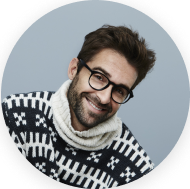
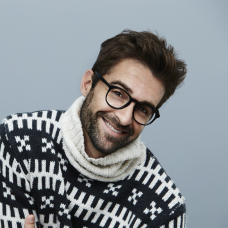
Change header to redesigned

diff --git a/assets/js/components/ProjectsHeader.vue b/assets/js/components/ProjectsHeader.vue
@@ -1,9 +1,35 @@
 <template>
-  <div class="page-subheader" :style="styles">
-    <div class="h-container">
+  <div class="page-subhead" :style="styles">
+    <div class="head-container">
       <img :src="user.imageProfile" class="userImage" alt="user-image">
-      <div class="th-heading title">{{user.title}}</div>
-      <div class="th-heading position">{{user.position}}</div>
+      <div class="head-txt-container">
+        <div class="about-info">
+          <div class="th-heading title">{{user.title}}</div>
+          <div class="th-heading position">{{user.position}}</div>
+        </div>
+        <hr>
+        <div class="summary-info">
+          <div class="sum" ><svg width="28" height="25" viewBox="0 0 28 25" fill="none" xmlns="http://www.w3.org/2000/svg">
+            <path d="M8.13511 14.4287C8.92198 14.4287 9.68256 14.3779 10.4023 14.2832V6.39439C9.68263 6.29985 8.92198 6.24902 8.13511 6.24902C3.64222 6.24902 0 7.90092 0 9.93872V10.7389C0 12.7766 3.64222 14.4287 8.13511 14.4287Z" fill="white"/>
+            <path d="M8.13511 18.5474C8.92198 18.5474 9.68256 18.4965 10.4023 18.4021V16.0897C9.68242 16.1842 8.92219 16.2358 8.13511 16.2358C4.2133 16.2358 0.939977 14.977 0.171095 13.3018C0.0591233 13.5458 0 13.7984 0 14.0575V14.8577C0 16.8955 3.64222 18.5474 8.13511 18.5474Z" fill="white"/>
+            <path d="M10.4023 20.3895V20.2098C9.68242 20.3043 8.92218 20.3559 8.13511 20.3559C4.2133 20.3559 0.939977 19.0971 0.171095 17.4219C0.0591233 17.6658 0 17.9185 0 18.1775V18.9777C0 21.0156 3.64222 22.6675 8.13511 22.6675C9.0336 22.6675 9.89779 22.6012 10.7059 22.4792C10.5056 22.0695 10.4023 21.6373 10.4023 21.1897V20.3895Z" fill="white"/>
+            <path d="M19.8649 0C15.372 0 11.7298 1.6519 11.7298 3.6897V4.48989C11.7298 6.52769 15.372 8.17959 19.8649 8.17959C24.3577 8.17959 28 6.52769 28 4.48989V3.6897C28 1.6519 24.3577 0 19.8649 0Z" fill="white"/>
+            <path d="M19.8649 9.98771C15.9431 9.98771 12.6698 8.72903 11.9009 7.05371C11.7889 7.29766 11.7298 7.55033 11.7298 7.80942V8.6096C11.7298 10.6474 15.372 12.2993 19.8649 12.2993C24.3577 12.2993 28 10.6474 28 8.6096V7.80942C28 7.55033 27.9409 7.29766 27.8289 7.05371C27.06 8.72903 23.7867 9.98771 19.8649 9.98771Z" fill="white"/>
+            <path d="M19.8649 14.1059C15.9431 14.1059 12.6698 12.8471 11.9009 11.1719C11.7889 11.4158 11.7298 11.6685 11.7298 11.9276V12.7278C11.7298 14.7656 15.372 16.4175 19.8649 16.4175C24.3577 16.4175 28 14.7656 28 12.7278V11.9276C28 11.6685 27.9409 11.4158 27.8289 11.1719C27.06 12.8472 23.7867 14.1059 19.8649 14.1059Z" fill="white"/>
+            <path d="M19.8649 18.4486C15.9431 18.4486 12.6698 17.1899 11.9009 15.5146C11.7889 15.7587 11.7298 16.0113 11.7298 16.2703V17.0705C11.7298 19.1083 15.372 20.7602 19.8649 20.7602C24.3577 20.7602 28 19.1083 28 17.0705V16.2703C28 16.0113 27.9409 15.7585 27.8289 15.5146C27.06 17.1898 23.7867 18.4486 19.8649 18.4486Z" fill="white"/>
+            <path d="M19.8649 22.5678C15.9431 22.5678 12.6698 21.3091 11.9009 19.6339C11.7889 19.8779 11.7298 20.1306 11.7298 20.3895V21.1897C11.7298 23.2275 15.372 24.8794 19.8649 24.8794C24.3577 24.8794 28 23.2275 28 21.1897V20.3894C28 20.1304 27.9409 19.8777 27.8289 19.6338C27.06 21.309 23.7867 22.5678 19.8649 22.5678Z" fill="white"/>
+          </svg> <span>{{user.valueText}}</span>{{user.value}}
+          </div>
+          <div class="sum valet"><svg width="28" height="27" viewBox="0 0 28 27" fill="none" xmlns="http://www.w3.org/2000/svg">
+            <path d="M6.54308 5.11639L17.7054 2.06957L17.1142 0.874731C16.7275 0.0980891 15.7842 -0.22263 15.0075 0.164119L5.01495 5.11639H6.54308Z" fill="white"/>
+            <path d="M21.1703 2.15723C21.0319 2.15723 20.8936 2.17609 20.7552 2.21382L18.1329 2.93072L10.1243 5.11601H19.2145H23.1763L22.6858 3.31747C22.4972 2.61629 21.862 2.15723 21.1703 2.15723Z" fill="white"/>
+            <path d="M24.8148 6.21777H24.4564H23.969H23.4816H19.7619H6.09366H4.3014H2.79214H2.5123H1.57529C1.0785 6.21777 0.635149 6.44731 0.345873 6.8089C0.213812 6.97555 0.113195 7.16735 0.0565974 7.37802C0.0220101 7.51008 0 7.64843 0 7.78992V7.97858V9.77083V25.3068C0 26.1747 0.704323 26.879 1.57215 26.879H24.8117C25.6795 26.879 26.3838 26.1747 26.3838 25.3068V20.9205H17.0547C15.58 20.9205 14.382 19.7225 14.382 18.2479V16.8078V16.3204V15.833V14.7514C14.382 14.0282 14.6713 13.3711 15.1398 12.89C15.5549 12.4624 16.1114 12.1731 16.734 12.1008C16.8377 12.0882 16.9446 12.0819 17.0515 12.0819H25.0758H25.5632H26.0505H26.3838V7.78992C26.387 6.9221 25.6826 6.21777 24.8148 6.21777Z" fill="white"/>
+            <path d="M27.4874 13.5837C27.3301 13.4391 27.1446 13.3291 26.9371 13.2567C26.7767 13.2033 26.607 13.1719 26.4277 13.1719H26.3869H26.3554H25.868H24.1104H17.0546C16.1867 13.1719 15.4824 13.8762 15.4824 14.744V15.5269V16.0143V16.5017V18.2436C15.4824 19.1114 16.1867 19.8158 17.0546 19.8158H26.3869H26.4277C26.607 19.8158 26.7768 19.7843 26.9371 19.7309C27.1446 19.6617 27.3301 19.5485 27.4874 19.4038C27.8018 19.1177 27.9999 18.7027 27.9999 18.2436V14.744C27.9999 14.2849 27.8018 13.8698 27.4874 13.5837ZM20.3372 16.8067C20.3372 17.2406 19.9851 17.5927 19.5511 17.5927H19.0292C18.5953 17.5927 18.2431 17.2406 18.2431 16.8067V16.2847C18.2431 16.0332 18.3595 15.8099 18.545 15.6684C18.6802 15.5646 18.8469 15.4986 19.0292 15.4986H19.1613H19.5511C19.9851 15.4986 20.3372 15.8508 20.3372 16.2847V16.8067Z" fill="white"/>
+          </svg>
+            <span>{{user.valueText}}</span> {{user.valet}}</div>
+        </div>
+      </div>
+
     </div>
     <div class="nav">
       <ul class="nav-links" >
@@ -36,7 +62,10 @@ export default {
         user : {
           title : 'שמתשמ םש',
           imageProfile: '/static/images/profile/defPicCutted.png',
-          position: 'האדר שייכל'
+          position: 'האדר שייכל',
+          valet: ' $235 ',
+          value : '$235',
+          valueText: 'לכייש רדאה:'
         }
     }
   }
@@ -52,38 +81,44 @@ export default {
 </script>
 
 <style lang="scss" scoped>
-@import '~@/vars.scss';
-.page-subheader{
 
+.page-subhead{
   position: relative;
   height:451px;
   width: 100%;
   display: flex;
-  -ms-align-items: center;
-  align-items: center;
-  flex-direction: column;
+
+
+  flex-direction: row;
+  justify-content: flex-start;
   -webkit-background-size: cover;
   background-size: cover;
   background-position: center;
-  .h-container{
+  .head-container{
+
+    height: 317px;
+    margin-right: 358px;
     width: unset;
     display: flex;
-    flex-direction: column;
+    flex-direction: row;
     align-items: center;
     text-align: center;
+    @media screen and (max-width:1440px ){
+      margin: 0 auto;
+    }
     .userImage{
       pointer-events: none;
     }
     .title{
       pointer-events:none;
       margin: 0;
-      margin-bottom: -20px;
+      margin-bottom: -27px;
       font-family: Assistant;
       font-style: normal;
       font-weight: bold;
       font-size: 36px;
       line-height: 65px;
-      text-align: center;
+      text-align: right;
       color: #FFFFFF;
     }
     .position{
@@ -93,8 +128,45 @@ export default {
       font-weight: normal;
       font-size: 24px;
       line-height: 65px;
-      text-align: center;
+      text-align: right;
       color: #F2F2F2;
+    }
+  }
+}
+.head-txt-container{
+  margin-right: 13px;
+  hr{
+    margin-left: 15px;
+    width: 185px;
+    height: 0px;
+    color: white;
+    border: 1px solid #FFFFFF;
+    transform: rotate(-180deg);
+  }
+  .about-info{
+    margin-bottom: -36px;
+  }
+  .summary-info{
+    .sum{
+      font-family: Assistant;
+      font-style: normal;
+      font-weight: bold;
+      font-size: 24px;
+      line-height: 65px;
+      margin-top: -17px;
+      text-align: center;
+      display: flex;
+      align-items: center;
+      color: #F2F2F2;
+      span{
+        font-weight: normal;
+      }
+      svg{
+        margin-left: 10px;
+      }
+    }
+    .valet{
+      margin-top: -24px;
     }
   }
 }
@@ -142,7 +214,7 @@ a{
 }
 
 .userImage{
-  margin-top: 46px;
+
   width: 200px;
   height: 200px;
   border-radius: 50%;
